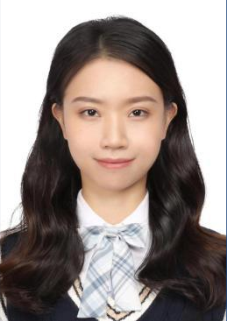
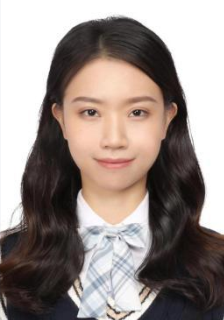
adjust photos

diff --git a/_pages/research.md b/_pages/research.md
@@ -15,18 +15,18 @@ The following table shows my supervised/co-supervised PhDs, Masters and Postdoct
 
 | PhD students                                                 | Name                     | Brief introduction                                           |
 | ------------------------------------------------------------ | ------------------------ | :----------------------------------------------------------- |
-| ![Editing a markdown file for a talk](/group/photo-MaLiya.jpg =100) | Liya MA (2022.08)        | Liya Ma got both the Master degree and Bachelor degree in Electrical Engineering at North China Electric Power University in 2019 and 2022, respectively. Now, she is a PhD in Electrical and Computer Engineering at University of Macau. Her research focuses on the coordinated optimization of power-communication coupling networks for dispatching large-scale flexible resources. |
-| ![Editing a markdown file for a talk](/group/photo-ZhangZhenwei.jpg =100) | Zhenwei  ZHANG (2023.01) | Zhenwei Zhang got the Master degree in Electrical Engineering at Shandong University in 2022. Now, he is a PhD in Electrical and Computer Engineering at University of Macau. His research focuses on the optimization technologies of urban integrated energy systems considering multiple factors, including distributed resources, flexible loads, and micro-climate. |
-| ![Editing a markdown file for a talk](/group/photo-LiuRuiwen.jpg =100) | Ruiwen LIU (2023.01)     | Ruiwen Liu got the Bachelor degree in Electrical Engineering at Huazhong University of Science and Technology in 2022. Now, he is a PhD in Electrical and Computer Engineering at University of Macau. His research focuses on the data valuation and distributed control of  massive flexible loads considering complex communication conditions. |
-| ![Editing a markdown file for a talk](/group/photo-QiTaoyi.jpg =100) | Taoyi QI (2023.08)       | Taoyi Qi got both the Master degree and Bachelor degree in Electrical Engineering at Zhejiang University in 2020 and 2023, respectively. Now, he is a PhD in Electrical and Computer Engineering at University of Macau. His research focuses on the digital twin modeling, optimization and control technologies of distributed networks, commercial buildings, and flexible loads. |
-| ![Editing a markdown file for a talk](/group/photo-JiangSiyu.png =100) | Siyu JIANG (2023.08)     | Siyu Jiang got both the Master degree and Bachelor degree in School of New Energy at North China Electric Power University, in 2020 and 2023, respectively. Now, she is a PhD in Electrical and Computer Engineering at University of Macau. Her research focuses on the sensing-communication-computing-control integrated technologies for dispatching large-scale flexible resources. |
+| ![Editing a markdown file for a talk](/group/photo-MaLiya.jpg) | Liya MA (2022.08)        | Liya Ma got both the Master degree and Bachelor degree in Electrical Engineering at North China Electric Power University in 2019 and 2022, respectively. Now, she is a PhD in Electrical and Computer Engineering at University of Macau. Her research focuses on the coordinated optimization of power-communication coupling networks for dispatching large-scale flexible resources. |
+| ![Editing a markdown file for a talk](/group/photo-ZhangZhenwei.jpg) | Zhenwei  ZHANG (2023.01) | Zhenwei Zhang got the Master degree in Electrical Engineering at Shandong University in 2022. Now, he is a PhD in Electrical and Computer Engineering at University of Macau. His research focuses on the optimization technologies of urban integrated energy systems considering multiple factors, including distributed resources, flexible loads, and micro-climate. |
+| ![Editing a markdown file for a talk](/group/photo-LiuRuiwen.png) | Ruiwen LIU (2023.01)     | Ruiwen Liu got the Bachelor degree in Electrical Engineering at Huazhong University of Science and Technology in 2022. Now, he is a PhD in Electrical and Computer Engineering at University of Macau. His research focuses on the data valuation and distributed control of  massive flexible loads considering complex communication conditions. |
+| ![Editing a markdown file for a talk](/group/photo-QiTaoyi.png) | Taoyi QI (2023.08)       | Taoyi Qi got both the Master degree and Bachelor degree in Electrical Engineering at Zhejiang University in 2020 and 2023, respectively. Now, he is a PhD in Electrical and Computer Engineering at University of Macau. His research focuses on the digital twin modeling, optimization and control technologies of distributed networks, commercial buildings, and flexible loads. |
+| ![Editing a markdown file for a talk](/group/photo-JiangSiyu.png) | Siyu JIANG (2023.08)     | Siyu Jiang got both the Master degree and Bachelor degree in School of New Energy at North China Electric Power University, in 2020 and 2023, respectively. Now, she is a PhD in Electrical and Computer Engineering at University of Macau. Her research focuses on the sensing-communication-computing-control integrated technologies for dispatching large-scale flexible resources. |
 
 
 
 | Master students                                              | Name                  | Brief introduction |
 | ------------------------------------------------------------ | --------------------- | :----------------- |
 |                                                              | Tong WU (2021.08)     |                    |
-|                                                              | Zifei WANG (2021.08)  |                    |
+| ![Editing a markdown file for a talk](/group/photo-WangZifei.png) | Zifei WANG (2021.08)  |                    |
 |                                                              | Lunshu CHEN (2022.08) |                    |
 | ![Editing a markdown file for a talk](/group/photo-WangKexin.png) | Kexin WANG (2022.08)  |                    |
 |                                                              | Jiabao Li (2022.08)   |                    |
